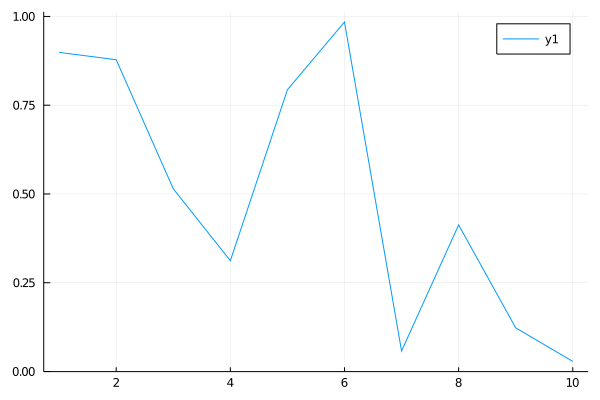
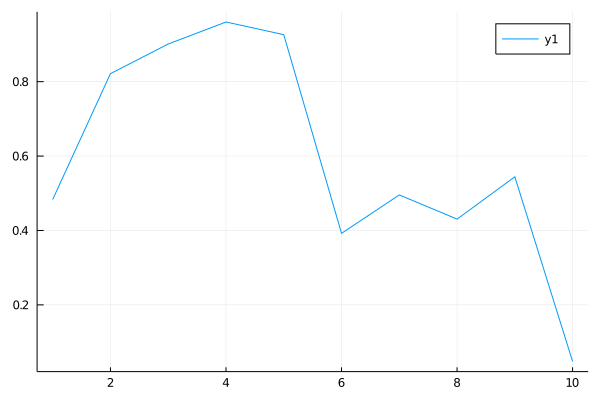
Update Dotto

diff --git a/docs/posts/2021-02-03-forcats-for-categorical-data/forcats.html b/docs/posts/2021-02-03-forcats-for-categorical-data/forcats.html
@@ -181,16 +181,16 @@
 <div class="sourceCode" id="cb6"><pre class="sourceCode julia"><code class="sourceCode julia"><span id="cb6-1"><a href="#cb6-1" aria-hidden="true" tabindex="-1"></a><span class="kw">using</span> Plots</span>
 <span id="cb6-2"><a href="#cb6-2" aria-hidden="true" tabindex="-1"></a>x <span class="op">=</span> <span class="fl">1</span><span class="op">:</span><span class="fl">10</span><span class="op">;</span> y <span class="op">=</span> rand(<span class="fl">10</span>)<span class="op">;</span> <span class="co"># These are the plotting data</span></span></code></pre></div>
 <pre><code>## 10-element Array{Float64,1}:
-##  0.8987397036666687
-##  0.8780179075628616
-##  0.514651718390122
-##  0.3120249188803763
-##  0.7935129184530416
-##  0.9843572788575357
-##  0.05775901772450953
-##  0.4128417849618786
-##  0.12298006456197741
-##  0.028381983457052673</code></pre>
+##  0.48325436540667543
+##  0.8215760172311719
+##  0.901328661491603
+##  0.9604400135014144
+##  0.9263195598693772
+##  0.392332030940852
+##  0.4955278179935998
+##  0.43054440629079593
+##  0.5443469120999869
+##  0.04798128026847026</code></pre>
 <div class="sourceCode" id="cb8"><pre class="sourceCode julia"><code class="sourceCode julia"><span id="cb8-1"><a href="#cb8-1" aria-hidden="true" tabindex="-1"></a>plot(x<span class="op">,</span> y)</span></code></pre></div>
 <img src="forcats_files/figure-html/myjulia-J1.png" width="300" />
 </div>
@@ -366,9 +366,9 @@
 <li class="nav-item dot-li">
 <a class="dot-li nav-link  dot-li-js dm-dot-title"> JS </a>
 <div class="dm-dot-content">
-<div class="sourceCode" id="cb12"><pre class="sourceCode js"><code class="sourceCode javascript"><span id="cb12-1"><a href="#cb12-1" aria-hidden="true" tabindex="-1"></a><span class="fu">print</span>(<span class="st">&quot;Hello&quot;</span>)</span></code></pre></div>
+<div class="sourceCode" id="cb12"><pre class="sourceCode js"><code class="sourceCode javascript"><span id="cb12-1"><a href="#cb12-1" aria-hidden="true" tabindex="-1"></a><span class="st">&quot;Hello&quot;</span></span></code></pre></div>
 <script type="text/javascript">
-print("Hello")
+"Hello"
 </script>
 </div>
 </li>
@@ -381,26 +381,33 @@ print("Hello")
 </div>
 </li>
 <!-------------------------------------------------->
-<li class="nav-item dot-li">
-<a class="dot-li nav-link  dot-li-d3 dm-dot-title"> d3 </a>
-<div class="dm-dot-content ">
-
-<div class="sourceCode" id="cb15"><pre class="sourceCode r"><code class="sourceCode r"><span id="cb15-1"><a href="#cb15-1" aria-hidden="true" tabindex="-1"></a><span class="fu">library</span>(r2d3)</span>
-<span id="cb15-2"><a href="#cb15-2" aria-hidden="true" tabindex="-1"></a>bars <span class="ot">&lt;-</span> <span class="fu">c</span>(<span class="dv">10</span>, <span class="dv">20</span>, <span class="dv">30</span>)</span></code></pre></div>
-<p>102030numericsvgorangevar d3Script = function(d3, r2d3, data, svg, width, height, options, theme, console) { this.d3 = d3;</p>
-<p>svg = d3.select(svg.node()); svg.selectAll(‘rect’) .data(data) .enter() .append(‘rect’) .attr(‘width’, function(d) { return d * 10; }) .attr(‘height’, ‘20px’) .attr(‘y’, function(d, i) { return i * 22; }) .attr(‘fill’, options.color); };5#FFFFFF#000000#FFFFFF#000000TRUETRUEFALSETRUEFALSETRUEd3v55.9.2/Library/Frameworks/R.framework/Versions/4.0/Resources/library/r2d3/www/d3/5.9.2d3.min.jsTRUE</p>
+<!-- # ```{r setup, Dot_title = "d3", Dot_color = "d3", Dot_close = F} -->
+<!-- #  library(r2d3) -->
+<!-- #  bars <- c(10, 20, 30) -->
+<!-- # ``` -->
+<!-- #  -->
+<!-- # ```{d3 data=bars, options=list(color = 'orange'), Dot_open = F} -->
+<!-- #  svg.selectAll('rect') -->
+<!-- #    .data(data) -->
+<!-- #    .enter() -->
+<!-- #      .append('rect') -->
+<!-- #        .attr('width', function(d) { return d * 10; }) -->
+<!-- #        .attr('height', '20px') -->
+<!-- #        .attr('y', function(d, i) { return i * 22; }) -->
+<!-- #        .attr('fill', options.color); -->
+<!-- # ``` -->
 <!-------------------------------------------------->
 <li class="nav-item dot-li">
 <a class="dot-li nav-link  dot-li-Rcpp dm-dot-title"> Rcpp </a>
 <div class="dm-dot-content ">
 
-<div class="sourceCode" id="cb16"><pre class="sourceCode r"><code class="sourceCode r"><span id="cb16-1"><a href="#cb16-1" aria-hidden="true" tabindex="-1"></a><span class="fu">library</span>(Rcpp)</span></code></pre></div>
-<div class="sourceCode" id="cb17"><pre class="sourceCode cpp"><code class="sourceCode cpp"><span id="cb17-1"><a href="#cb17-1" aria-hidden="true" tabindex="-1"></a><span class="pp">#include </span><span class="im">&lt;Rcpp.h&gt;</span></span>
-<span id="cb17-2"><a href="#cb17-2" aria-hidden="true" tabindex="-1"></a></span>
-<span id="cb17-3"><a href="#cb17-3" aria-hidden="true" tabindex="-1"></a><span class="co">// [[Rcpp::export]]</span></span>
-<span id="cb17-4"><a href="#cb17-4" aria-hidden="true" tabindex="-1"></a><span class="dt">int</span> timesTwo(<span class="dt">int</span> x) {</span>
-<span id="cb17-5"><a href="#cb17-5" aria-hidden="true" tabindex="-1"></a>  <span class="cf">return</span> x * <span class="dv">2</span>;</span>
-<span id="cb17-6"><a href="#cb17-6" aria-hidden="true" tabindex="-1"></a>}</span></code></pre></div>
+<div class="sourceCode" id="cb15"><pre class="sourceCode r"><code class="sourceCode r"><span id="cb15-1"><a href="#cb15-1" aria-hidden="true" tabindex="-1"></a><span class="fu">library</span>(Rcpp)</span></code></pre></div>
+<div class="sourceCode" id="cb16"><pre class="sourceCode cpp"><code class="sourceCode cpp"><span id="cb16-1"><a href="#cb16-1" aria-hidden="true" tabindex="-1"></a><span class="pp">#include </span><span class="im">&lt;Rcpp.h&gt;</span></span>
+<span id="cb16-2"><a href="#cb16-2" aria-hidden="true" tabindex="-1"></a></span>
+<span id="cb16-3"><a href="#cb16-3" aria-hidden="true" tabindex="-1"></a><span class="co">// [[Rcpp::export]]</span></span>
+<span id="cb16-4"><a href="#cb16-4" aria-hidden="true" tabindex="-1"></a><span class="dt">int</span> timesTwo(<span class="dt">int</span> x) {</span>
+<span id="cb16-5"><a href="#cb16-5" aria-hidden="true" tabindex="-1"></a>  <span class="cf">return</span> x * <span class="dv">2</span>;</span>
+<span id="cb16-6"><a href="#cb16-6" aria-hidden="true" tabindex="-1"></a>}</span></code></pre></div>
 <div id="hello-rcpp" class="section level2">
 <h2>Hello <code>Rcpp</code>!</h2>
 <pre><code>## [1] 10</code></pre>
@@ -416,8 +423,8 @@ model {
   y[1] ~ normal(0, 1);
   y[2] ~ double_exponential(0, 2);
 }</code></pre>
-<div class="sourceCode" id="cb20"><pre class="sourceCode r"><code class="sourceCode r"><span id="cb20-1"><a href="#cb20-1" aria-hidden="true" tabindex="-1"></a><span class="fu">library</span>(rstan)</span>
-<span id="cb20-2"><a href="#cb20-2" aria-hidden="true" tabindex="-1"></a>fit <span class="ot">=</span> <span class="fu">sampling</span>(ex1)</span></code></pre></div>
+<div class="sourceCode" id="cb19"><pre class="sourceCode r"><code class="sourceCode r"><span id="cb19-1"><a href="#cb19-1" aria-hidden="true" tabindex="-1"></a><span class="fu">library</span>(rstan)</span>
+<span id="cb19-2"><a href="#cb19-2" aria-hidden="true" tabindex="-1"></a>fit <span class="ot">=</span> <span class="fu">sampling</span>(ex1)</span></code></pre></div>
 <pre><code>## 
 ## SAMPLING FOR MODEL &#39;6c400a2ac89dae0e85da9f7673dc5d1c&#39; NOW (CHAIN 1).
 ## Chain 1: 
@@ -439,15 +446,15 @@ model {
 ## Chain 1: Iteration: 1800 / 2000 [ 90%]  (Sampling)
 ## Chain 1: Iteration: 2000 / 2000 [100%]  (Sampling)
 ## Chain 1: 
-## Chain 1:  Elapsed Time: 0.011629 seconds (Warm-up)
-## Chain 1:                0.010811 seconds (Sampling)
-## Chain 1:                0.02244 seconds (Total)
+## Chain 1:  Elapsed Time: 0.010452 seconds (Warm-up)
+## Chain 1:                0.009836 seconds (Sampling)
+## Chain 1:                0.020288 seconds (Total)
 ## Chain 1: 
 ## 
 ## SAMPLING FOR MODEL &#39;6c400a2ac89dae0e85da9f7673dc5d1c&#39; NOW (CHAIN 2).
 ## Chain 2: 
-## Chain 2: Gradient evaluation took 1e-05 seconds
-## Chain 2: 1000 transitions using 10 leapfrog steps per transition would take 0.1 seconds.
+## Chain 2: Gradient evaluation took 6e-06 seconds
+## Chain 2: 1000 transitions using 10 leapfrog steps per transition would take 0.06 seconds.
 ## Chain 2: Adjust your expectations accordingly!
 ## Chain 2: 
 ## Chain 2: 
@@ -464,15 +471,15 @@ model {
 ## Chain 2: Iteration: 1800 / 2000 [ 90%]  (Sampling)
 ## Chain 2: Iteration: 2000 / 2000 [100%]  (Sampling)
 ## Chain 2: 
-## Chain 2:  Elapsed Time: 0.013142 seconds (Warm-up)
-## Chain 2:                0.009189 seconds (Sampling)
-## Chain 2:                0.022331 seconds (Total)
+## Chain 2:  Elapsed Time: 0.011024 seconds (Warm-up)
+## Chain 2:                0.01311 seconds (Sampling)
+## Chain 2:                0.024134 seconds (Total)
 ## Chain 2: 
 ## 
 ## SAMPLING FOR MODEL &#39;6c400a2ac89dae0e85da9f7673dc5d1c&#39; NOW (CHAIN 3).
 ## Chain 3: 
-## Chain 3: Gradient evaluation took 9e-06 seconds
-## Chain 3: 1000 transitions using 10 leapfrog steps per transition would take 0.09 seconds.
+## Chain 3: Gradient evaluation took 3.4e-05 seconds
+## Chain 3: 1000 transitions using 10 leapfrog steps per transition would take 0.34 seconds.
 ## Chain 3: Adjust your expectations accordingly!
 ## Chain 3: 
 ## Chain 3: 
@@ -489,15 +496,15 @@ model {
 ## Chain 3: Iteration: 1800 / 2000 [ 90%]  (Sampling)
 ## Chain 3: Iteration: 2000 / 2000 [100%]  (Sampling)
 ## Chain 3: 
-## Chain 3:  Elapsed Time: 0.011481 seconds (Warm-up)
-## Chain 3:                0.010909 seconds (Sampling)
-## Chain 3:                0.02239 seconds (Total)
+## Chain 3:  Elapsed Time: 0.012731 seconds (Warm-up)
+## Chain 3:                0.011187 seconds (Sampling)
+## Chain 3:                0.023918 seconds (Total)
 ## Chain 3: 
 ## 
 ## SAMPLING FOR MODEL &#39;6c400a2ac89dae0e85da9f7673dc5d1c&#39; NOW (CHAIN 4).
 ## Chain 4: 
-## Chain 4: Gradient evaluation took 8e-06 seconds
-## Chain 4: 1000 transitions using 10 leapfrog steps per transition would take 0.08 seconds.
+## Chain 4: Gradient evaluation took 3.6e-05 seconds
+## Chain 4: 1000 transitions using 10 leapfrog steps per transition would take 0.36 seconds.
 ## Chain 4: Adjust your expectations accordingly!
 ## Chain 4: 
 ## Chain 4: 
@@ -514,21 +521,21 @@ model {
 ## Chain 4: Iteration: 1800 / 2000 [ 90%]  (Sampling)
 ## Chain 4: Iteration: 2000 / 2000 [100%]  (Sampling)
 ## Chain 4: 
-## Chain 4:  Elapsed Time: 0.011372 seconds (Warm-up)
-## Chain 4:                0.009231 seconds (Sampling)
-## Chain 4:                0.020603 seconds (Total)
+## Chain 4:  Elapsed Time: 0.011591 seconds (Warm-up)
+## Chain 4:                0.00994 seconds (Sampling)
+## Chain 4:                0.021531 seconds (Total)
 ## Chain 4:</code></pre>
-<div class="sourceCode" id="cb22"><pre class="sourceCode r"><code class="sourceCode r"><span id="cb22-1"><a href="#cb22-1" aria-hidden="true" tabindex="-1"></a><span class="fu">print</span>(fit)</span></code></pre></div>
+<div class="sourceCode" id="cb21"><pre class="sourceCode r"><code class="sourceCode r"><span id="cb21-1"><a href="#cb21-1" aria-hidden="true" tabindex="-1"></a>fit</span></code></pre></div>
 <pre><code>## Inference for Stan model: 6c400a2ac89dae0e85da9f7673dc5d1c.
 ## 4 chains, each with iter=2000; warmup=1000; thin=1; 
 ## post-warmup draws per chain=1000, total post-warmup draws=4000.
 ## 
 ##       mean se_mean   sd  2.5%   25%   50%   75% 97.5% n_eff Rhat
-## y[1]  0.03    0.02 1.01 -1.93 -0.61  0.02  0.73  1.99  1957    1
-## y[2]  0.07    0.06 2.77 -5.67 -1.28  0.02  1.46  6.23  1989    1
-## lp__ -1.50    0.03 1.18 -4.55 -2.07 -1.23 -0.61 -0.10  1410    1
+## y[1] -0.03    0.02 1.01 -2.02 -0.71 -0.02  0.65  1.93  2064    1
+## y[2] -0.06    0.06 2.72 -5.95 -1.44 -0.05  1.38  5.49  2103    1
+## lp__ -1.49    0.03 1.19 -4.42 -2.08 -1.17 -0.61 -0.11  1385    1
 ## 
-## Samples were drawn using NUTS(diag_e) at Wed Mar 10 00:51:17 2021.
+## Samples were drawn using NUTS(diag_e) at Wed Mar 10 01:04:34 2021.
 ## For each parameter, n_eff is a crude measure of effective sample size,
 ## and Rhat is the potential scale reduction factor on split chains (at 
 ## convergence, Rhat=1).</code></pre>

diff --git a/posts/2021-02-03-forcats-for-categorical-data/forcats.html b/posts/2021-02-03-forcats-for-categorical-data/forcats.html
@@ -181,16 +181,16 @@
 <div class="sourceCode" id="cb6"><pre class="sourceCode julia"><code class="sourceCode julia"><span id="cb6-1"><a href="#cb6-1" aria-hidden="true" tabindex="-1"></a><span class="kw">using</span> Plots</span>
 <span id="cb6-2"><a href="#cb6-2" aria-hidden="true" tabindex="-1"></a>x <span class="op">=</span> <span class="fl">1</span><span class="op">:</span><span class="fl">10</span><span class="op">;</span> y <span class="op">=</span> rand(<span class="fl">10</span>)<span class="op">;</span> <span class="co"># These are the plotting data</span></span></code></pre></div>
 <pre><code>## 10-element Array{Float64,1}:
-##  0.8987397036666687
-##  0.8780179075628616
-##  0.514651718390122
-##  0.3120249188803763
-##  0.7935129184530416
-##  0.9843572788575357
-##  0.05775901772450953
-##  0.4128417849618786
-##  0.12298006456197741
-##  0.028381983457052673</code></pre>
+##  0.48325436540667543
+##  0.8215760172311719
+##  0.901328661491603
+##  0.9604400135014144
+##  0.9263195598693772
+##  0.392332030940852
+##  0.4955278179935998
+##  0.43054440629079593
+##  0.5443469120999869
+##  0.04798128026847026</code></pre>
 <div class="sourceCode" id="cb8"><pre class="sourceCode julia"><code class="sourceCode julia"><span id="cb8-1"><a href="#cb8-1" aria-hidden="true" tabindex="-1"></a>plot(x<span class="op">,</span> y)</span></code></pre></div>
 <img src="forcats_files/figure-html/myjulia-J1.png" width="300" />
 </div>
@@ -366,9 +366,9 @@
 <li class="nav-item dot-li">
 <a class="dot-li nav-link  dot-li-js dm-dot-title"> JS </a>
 <div class="dm-dot-content">
-<div class="sourceCode" id="cb12"><pre class="sourceCode js"><code class="sourceCode javascript"><span id="cb12-1"><a href="#cb12-1" aria-hidden="true" tabindex="-1"></a><span class="fu">print</span>(<span class="st">&quot;Hello&quot;</span>)</span></code></pre></div>
+<div class="sourceCode" id="cb12"><pre class="sourceCode js"><code class="sourceCode javascript"><span id="cb12-1"><a href="#cb12-1" aria-hidden="true" tabindex="-1"></a><span class="st">&quot;Hello&quot;</span></span></code></pre></div>
 <script type="text/javascript">
-print("Hello")
+"Hello"
 </script>
 </div>
 </li>
@@ -381,26 +381,33 @@ print("Hello")
 </div>
 </li>
 <!-------------------------------------------------->
-<li class="nav-item dot-li">
-<a class="dot-li nav-link  dot-li-d3 dm-dot-title"> d3 </a>
-<div class="dm-dot-content ">
-
-<div class="sourceCode" id="cb15"><pre class="sourceCode r"><code class="sourceCode r"><span id="cb15-1"><a href="#cb15-1" aria-hidden="true" tabindex="-1"></a><span class="fu">library</span>(r2d3)</span>
-<span id="cb15-2"><a href="#cb15-2" aria-hidden="true" tabindex="-1"></a>bars <span class="ot">&lt;-</span> <span class="fu">c</span>(<span class="dv">10</span>, <span class="dv">20</span>, <span class="dv">30</span>)</span></code></pre></div>
-<p>102030numericsvgorangevar d3Script = function(d3, r2d3, data, svg, width, height, options, theme, console) { this.d3 = d3;</p>
-<p>svg = d3.select(svg.node()); svg.selectAll(‘rect’) .data(data) .enter() .append(‘rect’) .attr(‘width’, function(d) { return d * 10; }) .attr(‘height’, ‘20px’) .attr(‘y’, function(d, i) { return i * 22; }) .attr(‘fill’, options.color); };5#FFFFFF#000000#FFFFFF#000000TRUETRUEFALSETRUEFALSETRUEd3v55.9.2/Library/Frameworks/R.framework/Versions/4.0/Resources/library/r2d3/www/d3/5.9.2d3.min.jsTRUE</p>
+<!-- # ```{r setup, Dot_title = "d3", Dot_color = "d3", Dot_close = F} -->
+<!-- #  library(r2d3) -->
+<!-- #  bars <- c(10, 20, 30) -->
+<!-- # ``` -->
+<!-- #  -->
+<!-- # ```{d3 data=bars, options=list(color = 'orange'), Dot_open = F} -->
+<!-- #  svg.selectAll('rect') -->
+<!-- #    .data(data) -->
+<!-- #    .enter() -->
+<!-- #      .append('rect') -->
+<!-- #        .attr('width', function(d) { return d * 10; }) -->
+<!-- #        .attr('height', '20px') -->
+<!-- #        .attr('y', function(d, i) { return i * 22; }) -->
+<!-- #        .attr('fill', options.color); -->
+<!-- # ``` -->
 <!-------------------------------------------------->
 <li class="nav-item dot-li">
 <a class="dot-li nav-link  dot-li-Rcpp dm-dot-title"> Rcpp </a>
 <div class="dm-dot-content ">
 
-<div class="sourceCode" id="cb16"><pre class="sourceCode r"><code class="sourceCode r"><span id="cb16-1"><a href="#cb16-1" aria-hidden="true" tabindex="-1"></a><span class="fu">library</span>(Rcpp)</span></code></pre></div>
-<div class="sourceCode" id="cb17"><pre class="sourceCode cpp"><code class="sourceCode cpp"><span id="cb17-1"><a href="#cb17-1" aria-hidden="true" tabindex="-1"></a><span class="pp">#include </span><span class="im">&lt;Rcpp.h&gt;</span></span>
-<span id="cb17-2"><a href="#cb17-2" aria-hidden="true" tabindex="-1"></a></span>
-<span id="cb17-3"><a href="#cb17-3" aria-hidden="true" tabindex="-1"></a><span class="co">// [[Rcpp::export]]</span></span>
-<span id="cb17-4"><a href="#cb17-4" aria-hidden="true" tabindex="-1"></a><span class="dt">int</span> timesTwo(<span class="dt">int</span> x) {</span>
-<span id="cb17-5"><a href="#cb17-5" aria-hidden="true" tabindex="-1"></a>  <span class="cf">return</span> x * <span class="dv">2</span>;</span>
-<span id="cb17-6"><a href="#cb17-6" aria-hidden="true" tabindex="-1"></a>}</span></code></pre></div>
+<div class="sourceCode" id="cb15"><pre class="sourceCode r"><code class="sourceCode r"><span id="cb15-1"><a href="#cb15-1" aria-hidden="true" tabindex="-1"></a><span class="fu">library</span>(Rcpp)</span></code></pre></div>
+<div class="sourceCode" id="cb16"><pre class="sourceCode cpp"><code class="sourceCode cpp"><span id="cb16-1"><a href="#cb16-1" aria-hidden="true" tabindex="-1"></a><span class="pp">#include </span><span class="im">&lt;Rcpp.h&gt;</span></span>
+<span id="cb16-2"><a href="#cb16-2" aria-hidden="true" tabindex="-1"></a></span>
+<span id="cb16-3"><a href="#cb16-3" aria-hidden="true" tabindex="-1"></a><span class="co">// [[Rcpp::export]]</span></span>
+<span id="cb16-4"><a href="#cb16-4" aria-hidden="true" tabindex="-1"></a><span class="dt">int</span> timesTwo(<span class="dt">int</span> x) {</span>
+<span id="cb16-5"><a href="#cb16-5" aria-hidden="true" tabindex="-1"></a>  <span class="cf">return</span> x * <span class="dv">2</span>;</span>
+<span id="cb16-6"><a href="#cb16-6" aria-hidden="true" tabindex="-1"></a>}</span></code></pre></div>
 <div id="hello-rcpp" class="section level2">
 <h2>Hello <code>Rcpp</code>!</h2>
 <pre><code>## [1] 10</code></pre>
@@ -416,8 +423,8 @@ model {
   y[1] ~ normal(0, 1);
   y[2] ~ double_exponential(0, 2);
 }</code></pre>
-<div class="sourceCode" id="cb20"><pre class="sourceCode r"><code class="sourceCode r"><span id="cb20-1"><a href="#cb20-1" aria-hidden="true" tabindex="-1"></a><span class="fu">library</span>(rstan)</span>
-<span id="cb20-2"><a href="#cb20-2" aria-hidden="true" tabindex="-1"></a>fit <span class="ot">=</span> <span class="fu">sampling</span>(ex1)</span></code></pre></div>
+<div class="sourceCode" id="cb19"><pre class="sourceCode r"><code class="sourceCode r"><span id="cb19-1"><a href="#cb19-1" aria-hidden="true" tabindex="-1"></a><span class="fu">library</span>(rstan)</span>
+<span id="cb19-2"><a href="#cb19-2" aria-hidden="true" tabindex="-1"></a>fit <span class="ot">=</span> <span class="fu">sampling</span>(ex1)</span></code></pre></div>
 <pre><code>## 
 ## SAMPLING FOR MODEL &#39;6c400a2ac89dae0e85da9f7673dc5d1c&#39; NOW (CHAIN 1).
 ## Chain 1: 
@@ -439,15 +446,15 @@ model {
 ## Chain 1: Iteration: 1800 / 2000 [ 90%]  (Sampling)
 ## Chain 1: Iteration: 2000 / 2000 [100%]  (Sampling)
 ## Chain 1: 
-## Chain 1:  Elapsed Time: 0.011629 seconds (Warm-up)
-## Chain 1:                0.010811 seconds (Sampling)
-## Chain 1:                0.02244 seconds (Total)
+## Chain 1:  Elapsed Time: 0.010452 seconds (Warm-up)
+## Chain 1:                0.009836 seconds (Sampling)
+## Chain 1:                0.020288 seconds (Total)
 ## Chain 1: 
 ## 
 ## SAMPLING FOR MODEL &#39;6c400a2ac89dae0e85da9f7673dc5d1c&#39; NOW (CHAIN 2).
 ## Chain 2: 
-## Chain 2: Gradient evaluation took 1e-05 seconds
-## Chain 2: 1000 transitions using 10 leapfrog steps per transition would take 0.1 seconds.
+## Chain 2: Gradient evaluation took 6e-06 seconds
+## Chain 2: 1000 transitions using 10 leapfrog steps per transition would take 0.06 seconds.
 ## Chain 2: Adjust your expectations accordingly!
 ## Chain 2: 
 ## Chain 2: 
@@ -464,15 +471,15 @@ model {
 ## Chain 2: Iteration: 1800 / 2000 [ 90%]  (Sampling)
 ## Chain 2: Iteration: 2000 / 2000 [100%]  (Sampling)
 ## Chain 2: 
-## Chain 2:  Elapsed Time: 0.013142 seconds (Warm-up)
-## Chain 2:                0.009189 seconds (Sampling)
-## Chain 2:                0.022331 seconds (Total)
+## Chain 2:  Elapsed Time: 0.011024 seconds (Warm-up)
+## Chain 2:                0.01311 seconds (Sampling)
+## Chain 2:                0.024134 seconds (Total)
 ## Chain 2: 
 ## 
 ## SAMPLING FOR MODEL &#39;6c400a2ac89dae0e85da9f7673dc5d1c&#39; NOW (CHAIN 3).
 ## Chain 3: 
-## Chain 3: Gradient evaluation took 9e-06 seconds
-## Chain 3: 1000 transitions using 10 leapfrog steps per transition would take 0.09 seconds.
+## Chain 3: Gradient evaluation took 3.4e-05 seconds
+## Chain 3: 1000 transitions using 10 leapfrog steps per transition would take 0.34 seconds.
 ## Chain 3: Adjust your expectations accordingly!
 ## Chain 3: 
 ## Chain 3: 
@@ -489,15 +496,15 @@ model {
 ## Chain 3: Iteration: 1800 / 2000 [ 90%]  (Sampling)
 ## Chain 3: Iteration: 2000 / 2000 [100%]  (Sampling)
 ## Chain 3: 
-## Chain 3:  Elapsed Time: 0.011481 seconds (Warm-up)
-## Chain 3:                0.010909 seconds (Sampling)
-## Chain 3:                0.02239 seconds (Total)
+## Chain 3:  Elapsed Time: 0.012731 seconds (Warm-up)
+## Chain 3:                0.011187 seconds (Sampling)
+## Chain 3:                0.023918 seconds (Total)
 ## Chain 3: 
 ## 
 ## SAMPLING FOR MODEL &#39;6c400a2ac89dae0e85da9f7673dc5d1c&#39; NOW (CHAIN 4).
 ## Chain 4: 
-## Chain 4: Gradient evaluation took 8e-06 seconds
-## Chain 4: 1000 transitions using 10 leapfrog steps per transition would take 0.08 seconds.
+## Chain 4: Gradient evaluation took 3.6e-05 seconds
+## Chain 4: 1000 transitions using 10 leapfrog steps per transition would take 0.36 seconds.
 ## Chain 4: Adjust your expectations accordingly!
 ## Chain 4: 
 ## Chain 4: 
@@ -514,21 +521,21 @@ model {
 ## Chain 4: Iteration: 1800 / 2000 [ 90%]  (Sampling)
 ## Chain 4: Iteration: 2000 / 2000 [100%]  (Sampling)
 ## Chain 4: 
-## Chain 4:  Elapsed Time: 0.011372 seconds (Warm-up)
-## Chain 4:                0.009231 seconds (Sampling)
-## Chain 4:                0.020603 seconds (Total)
+## Chain 4:  Elapsed Time: 0.011591 seconds (Warm-up)
+## Chain 4:                0.00994 seconds (Sampling)
+## Chain 4:                0.021531 seconds (Total)
 ## Chain 4:</code></pre>
-<div class="sourceCode" id="cb22"><pre class="sourceCode r"><code class="sourceCode r"><span id="cb22-1"><a href="#cb22-1" aria-hidden="true" tabindex="-1"></a><span class="fu">print</span>(fit)</span></code></pre></div>
+<div class="sourceCode" id="cb21"><pre class="sourceCode r"><code class="sourceCode r"><span id="cb21-1"><a href="#cb21-1" aria-hidden="true" tabindex="-1"></a>fit</span></code></pre></div>
 <pre><code>## Inference for Stan model: 6c400a2ac89dae0e85da9f7673dc5d1c.
 ## 4 chains, each with iter=2000; warmup=1000; thin=1; 
 ## post-warmup draws per chain=1000, total post-warmup draws=4000.
 ## 
 ##       mean se_mean   sd  2.5%   25%   50%   75% 97.5% n_eff Rhat
-## y[1]  0.03    0.02 1.01 -1.93 -0.61  0.02  0.73  1.99  1957    1
-## y[2]  0.07    0.06 2.77 -5.67 -1.28  0.02  1.46  6.23  1989    1
-## lp__ -1.50    0.03 1.18 -4.55 -2.07 -1.23 -0.61 -0.10  1410    1
+## y[1] -0.03    0.02 1.01 -2.02 -0.71 -0.02  0.65  1.93  2064    1
+## y[2] -0.06    0.06 2.72 -5.95 -1.44 -0.05  1.38  5.49  2103    1
+## lp__ -1.49    0.03 1.19 -4.42 -2.08 -1.17 -0.61 -0.11  1385    1
 ## 
-## Samples were drawn using NUTS(diag_e) at Wed Mar 10 00:51:17 2021.
+## Samples were drawn using NUTS(diag_e) at Wed Mar 10 01:04:34 2021.
 ## For each parameter, n_eff is a crude measure of effective sample size,
 ## and Rhat is the potential scale reduction factor on split chains (at 
 ## convergence, Rhat=1).</code></pre>
